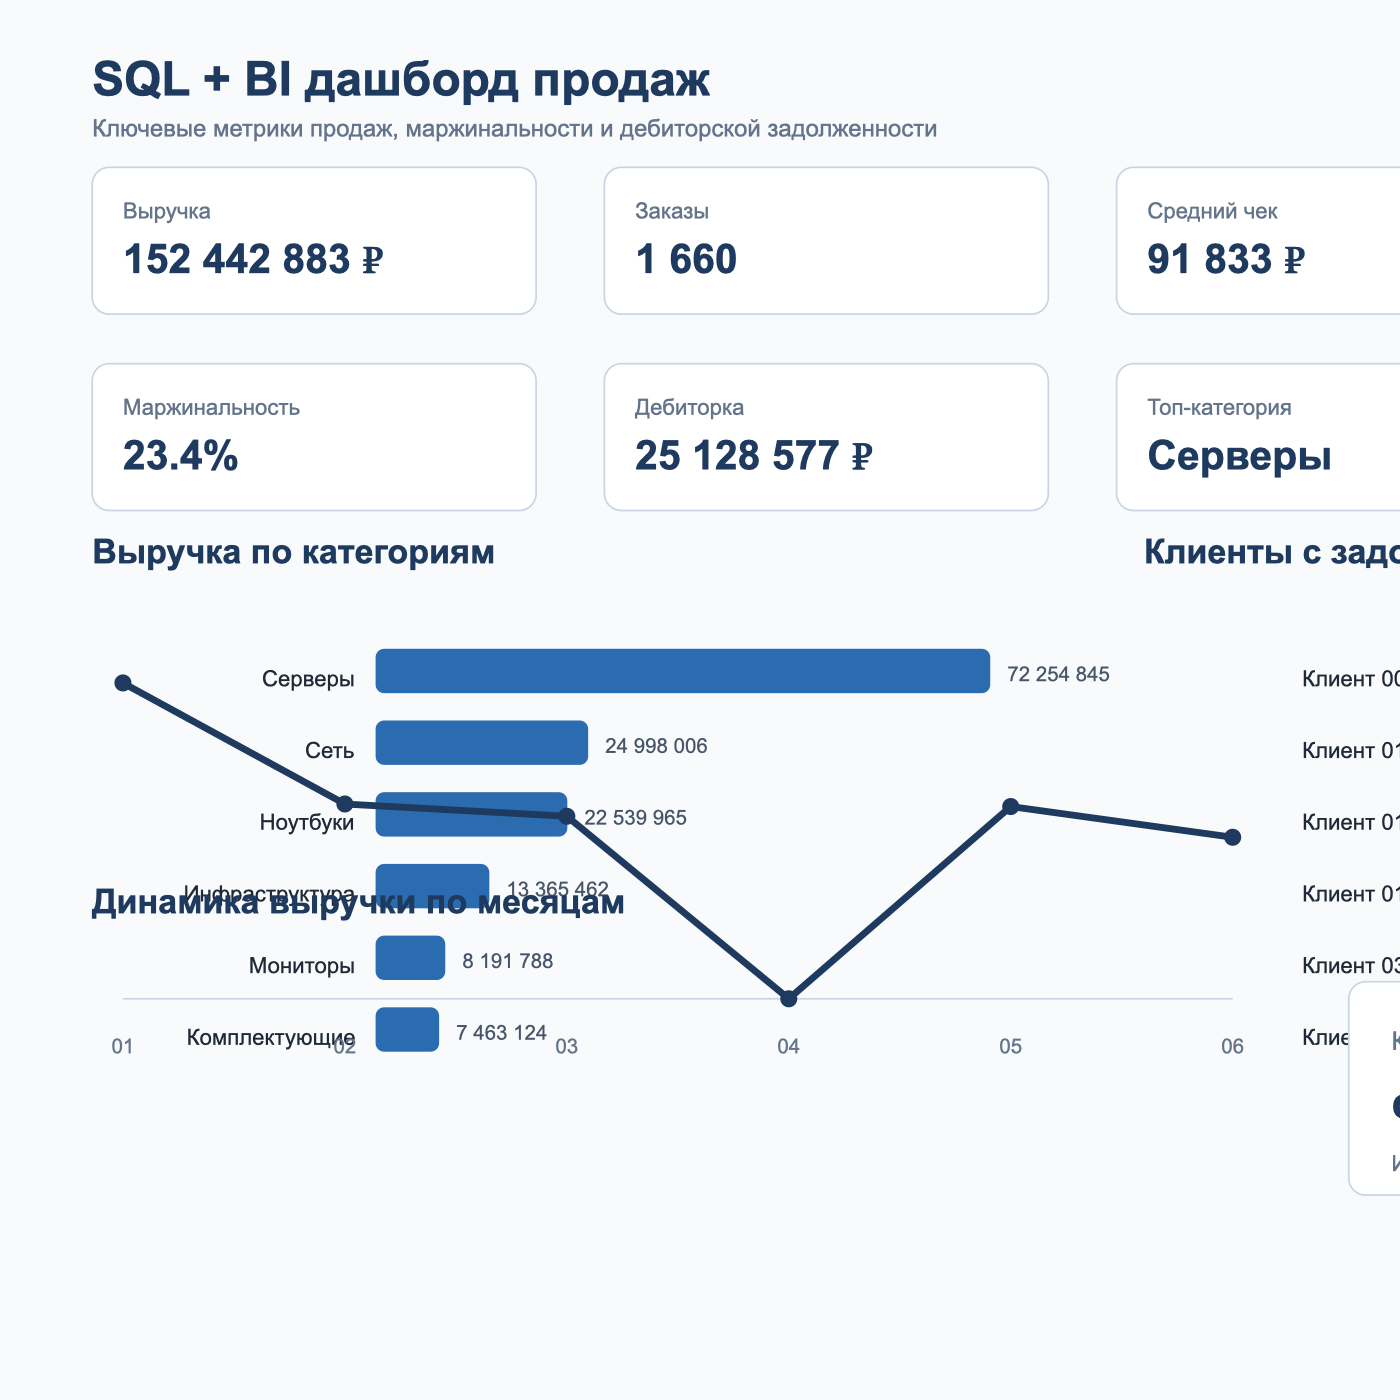
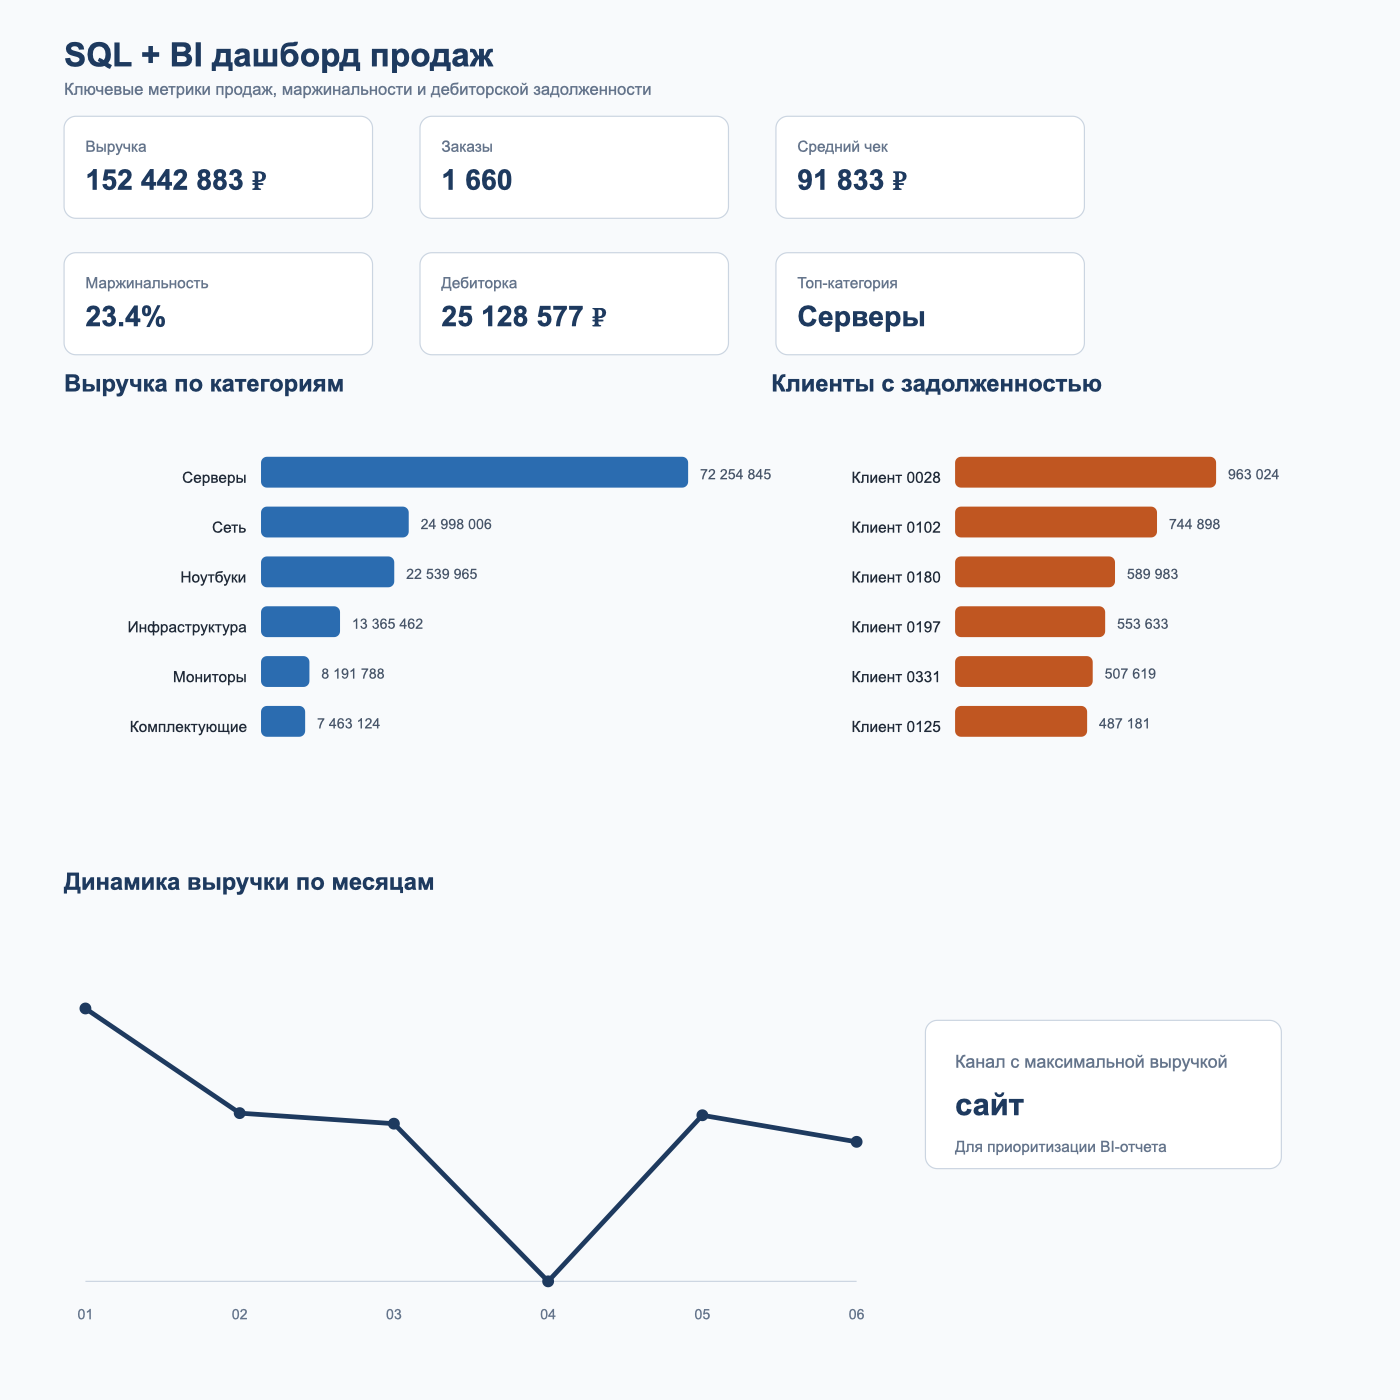
Fix SQL BI dashboard layout

diff --git a/scripts/build_sql_bi_dashboard_project.py b/scripts/build_sql_bi_dashboard_project.py
@@ -460,7 +460,7 @@ def svg_bar_chart(rows: list[dict[str, object]], label_key: str, value_key: str,
 
 
 def svg_line_chart(rows: list[dict[str, object]]) -> str:
-    x0, y0, width, height = 72, 585, 650, 185
+    x0, y0, width, height = 72, 1080, 650, 230
     values = [float(row["revenue"]) for row in rows]
     max_value = max(values)
     min_value = min(values)
@@ -508,28 +508,28 @@ def build_dashboard(results: dict[str, list[dict[str, object]]]) -> None:
             f'<text x="{x + 18}" y="{y + 62}" font-size="24" font-weight="750" fill="#1E3A5F">{value}</text>'
         )
 
-    category_svg = svg_bar_chart(categories, "category", "revenue", 220, 380, 360, "#2B6CB0")
-    receivables_svg = svg_bar_chart(receivables, "customer_name", "receivables", 850, 380, 260, "#C05621")
+    category_svg = svg_bar_chart(categories, "category", "revenue", 220, 385, 360, "#2B6CB0")
+    receivables_svg = svg_bar_chart(receivables, "customer_name", "receivables", 805, 385, 220, "#C05621")
     line_svg = svg_line_chart(monthly)
 
-    svg = f"""<svg xmlns="http://www.w3.org/2000/svg" width="1180" height="820" viewBox="0 0 1180 820">
+    svg = f"""<svg xmlns="http://www.w3.org/2000/svg" width="1180" height="1180" viewBox="0 0 1180 1180">
 <style>
 text{{font-family:Inter,Segoe UI,Arial,sans-serif;letter-spacing:0}}
 </style>
-<rect width="1180" height="820" fill="#F8FAFC"/>
+<rect width="1180" height="1180" fill="#F8FAFC"/>
 <text x="54" y="56" font-size="28" font-weight="800" fill="#1E3A5F">SQL + BI дашборд продаж</text>
 <text x="54" y="80" font-size="14" fill="#64748B">Ключевые метрики продаж, маржинальности и дебиторской задолженности</text>
 {''.join(card_svg)}
 <text x="54" y="330" font-size="20" font-weight="750" fill="#1E3A5F">Выручка по категориям</text>
 {category_svg}
-<text x="670" y="330" font-size="20" font-weight="750" fill="#1E3A5F">Клиенты с задолженностью</text>
+<text x="650" y="330" font-size="20" font-weight="750" fill="#1E3A5F">Клиенты с задолженностью</text>
 {receivables_svg}
-<text x="54" y="535" font-size="20" font-weight="750" fill="#1E3A5F">Динамика выручки по месяцам</text>
+<text x="54" y="750" font-size="20" font-weight="750" fill="#1E3A5F">Динамика выручки по месяцам</text>
 {line_svg}
-<rect x="790" y="575" width="310" height="125" rx="10" fill="#FFFFFF" stroke="#CBD5E1"/>
-<text x="815" y="615" font-size="15" fill="#64748B">Канал с максимальной выручкой</text>
-<text x="815" y="655" font-size="26" font-weight="750" fill="#1E3A5F">{top_channel}</text>
-<text x="815" y="686" font-size="13" fill="#64748B">Используется для приоритизации BI-отчета</text>
+<rect x="780" y="860" width="300" height="125" rx="10" fill="#FFFFFF" stroke="#CBD5E1"/>
+<text x="805" y="900" font-size="15" fill="#64748B">Канал с максимальной выручкой</text>
+<text x="805" y="940" font-size="26" font-weight="750" fill="#1E3A5F">{top_channel}</text>
+<text x="805" y="971" font-size="13" fill="#64748B">Для приоритизации BI-отчета</text>
 </svg>
 """
     (SCREENSHOTS / "dashboard.svg").write_text(svg, encoding="utf-8")